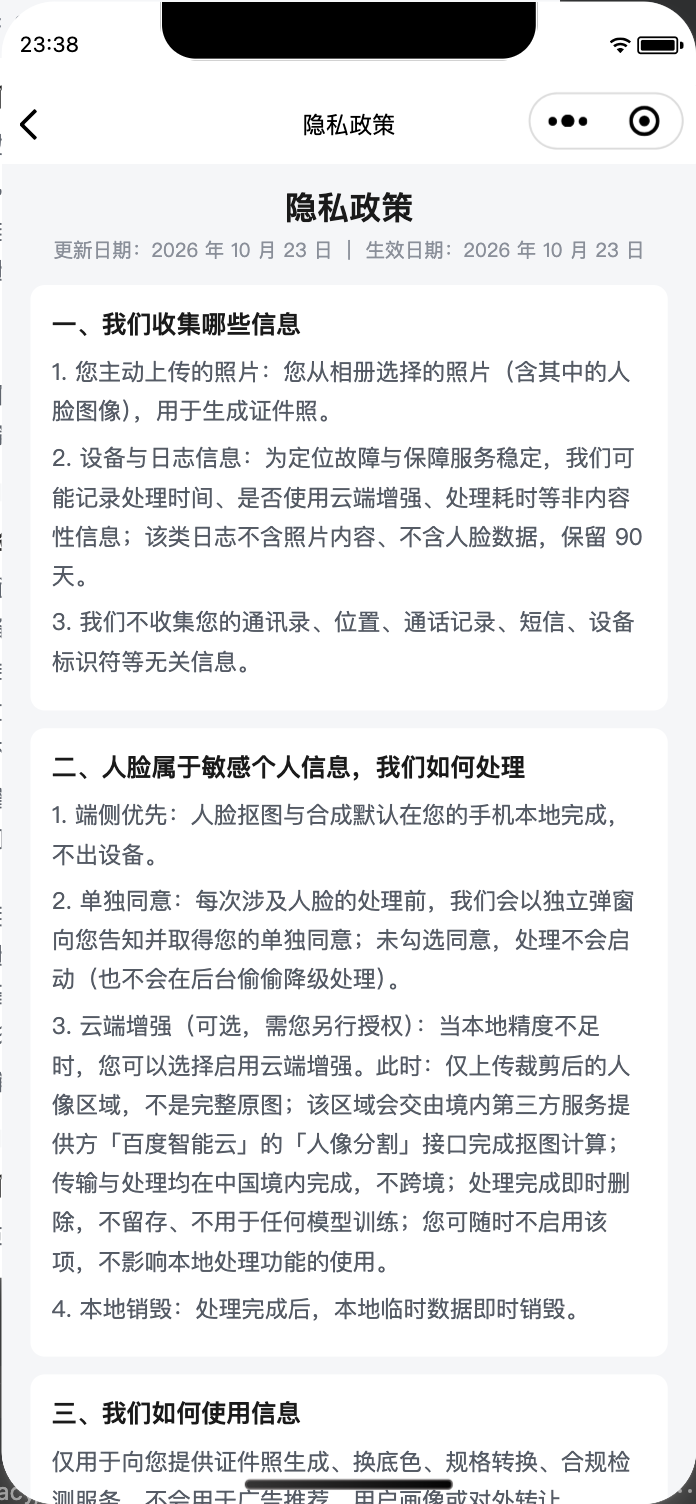
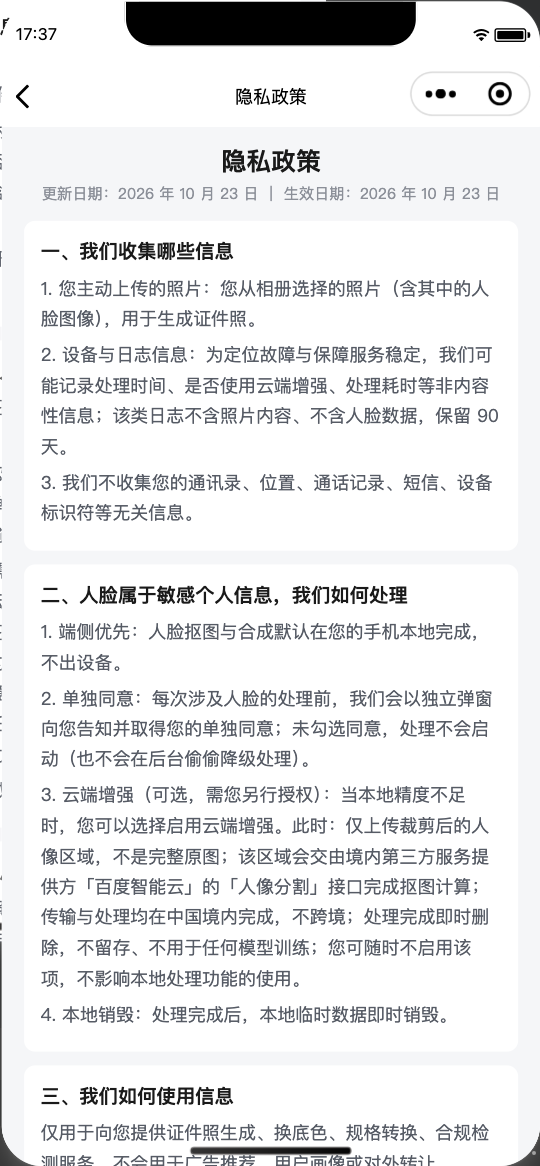
docs(备案): 工信部备案通过，备案号三处同步，提审硬阻塞清零（任务 #5/#11 收口）
owner 2026-10-27 17:2x：工信部备案通过，备案号 苏ICP备2026082326号-1X
（10-22 提交 → 17:01 短信核验 → 管局审核，早于预估 10-31）。
备案为提审唯一硬阻塞，现阻塞清零。

备案号落点同步（原占位「ICP 备案审核中」→ 真实备案号）：
- 隐私政策页页脚 src/pages/privacy/index.tsx
- 用户隐私保护指引与隐私政策.md（末尾 + 自检表 2 项打勾）
- smoke_privacy.js 断言键切换（原键在文案替换后会 FAIL）

连带回写：任务台账 #5/#11 + 关键路径刷新；小程序开发指南备案行；
发布准备包第七节；产品功能清单合规行；birefnet 域名备案前置项。

验证：verify.sh 全绿（tsc 0/编译 8.97s）；smoke_privacy 重跑 10/10
文本命中、运行时错误 0，截图 05-privacy.png。

⚠ -1X 后缀须与 beian.miit.gov.cn 逐字符核对（疑手误/脱敏），
不一致须告知 AI 修正全部落点。

diff --git a/工具链/smoke_privacy.js b/工具链/smoke_privacy.js
@@ -96,7 +96,9 @@ async function readPageText(page) {
     const txt = await readPageText(page);
     // 「百度智能云」为 2026-10-23 新增断言：接第三方 API 后必须在政策页点名披露接收方
     // （个保法第 23 条），漏写即视为披露缺失 → 提审风险。
-    const keys = ['隐私政策', '单独同意', '本地', '境内', '不用于任何模型训练', '90 天', 'tangqiang@vip.126.com', 'ICP 备案审核中', '撤回同意', '百度智能云'];
+    // 「苏ICP备」为 2026-10-27 更新：工信部备案已通过（苏ICP备2026082326号-1X），
+    // 页面页脚由占位文案「ICP 备案审核中」改为真实备案号，断言同步切换。
+    const keys = ['隐私政策', '单独同意', '本地', '境内', '不用于任何模型训练', '90 天', 'tangqiang@vip.126.com', '苏ICP备2026082326号', '撤回同意', '百度智能云'];
     const missing = keys.filter((k) => !txt.includes(k));
     console.log(`3) 关键承诺文本 ${keys.length - missing.length}/${keys.length} ${missing.length === 0 ? 'OK' : 'FAIL 缺失: ' + missing.join('、')}`);
     await shot('05-privacy.png');

diff --git a/idphoto-miniprogram/src/pages/privacy/index.tsx b/idphoto-miniprogram/src/pages/privacy/index.tsx
@@ -76,7 +76,7 @@ export default function Privacy() {
 
       <View className='privacy-page__foot'>
         <Text className='privacy-page__foot-line'>运营主体：个人开发者</Text>
-        <Text className='privacy-page__foot-line'>备案号：ICP 备案审核中（通过后更新）</Text>
+        <Text className='privacy-page__foot-line'>备案号：苏ICP备2026082326号-1X</Text>
       </View>
     </View>
   );

diff --git a/开发任务台账.md b/开发任务台账.md
@@ -22,7 +22,7 @@
 | 2e | **首页工具箱**：首屏展示 **T1–T6 六个入口卡片** + 隐私承诺与合规标识（入口枢纽） | ✅ 完成 | AI | 卡片+承诺已实现（2026-10-27 补 T6 冲印排版卡片，任务 #49）；**等保标识缺失**（待等保申请，PRD I4） | #15 #49 | 10-27 |
 | 3 | **接入真 AI 抠图模型**（端侧轻量模型 / 云端 BiRefNet） | ✅ 完成（接入骨架 + 部署包交付） | AI + 唐强 | 2026-10-23 21:4x–22:4x 完成。**owner 拍板 3 项**：①换可商用模型（RMBG-1.4 权重非商业许可，问题台账 #40）②端侧走可插拔加载器+权重管理（默认关闭零回归）③无 GPU，云端先交付配置与手册。落地：`core/mattingModel.js`（模型规格表：MODNet-q8/fp32/U2Netp/BiRefNet-1024，许可写进代码+单测红线）+`services/modelService.ts`（CDN 下载/缓存/校验/session 注入/失败退避/优雅降级）+`miniprogram/onnxMatting.ts` 重构（注入式 ort，TS2307 基线告警清零）+`部署/birefnet/`（FastAPI 真 BiRefNet 服务+Dockerfile+部署手册+自测脚本，契约与 mattingCloud 严格对齐，合规闸门 403/451/400）。**验证**：单测 108/108（新增 13）+ verify 全绿 + smoke_model 18/18（降级路径零回归）+ 四项回归全绿。**真模型上线待两项外部资源**：端侧权重 CDN 地址 + 境内 GPU（部署后按手册 5 步接入） | #40–#44 | 10-23 |
 | 4 | 补人脸定位（合规预审「头部占比」项） | ✅ 完成 | AI | 2026-10-23 14:0x–14:4x 完成：owner 拍板三口径（①双轨 VisionKit→faceDetect ②仅做定位不做自动裁剪 ③头顶按关键点脸高×系数外推）。**新建 `core/face.js`（纯 JS 22 条单测）+ `services/faceService.ts`（平台适配）**，T1/T3/T4 三处统一接入，消灭 T4/T3 两份重复实现与 0.35/0.30 两套不一致系数；**T1 头占比真实上屏并入预审（PRD B3 / T1-16 从"未做"转"已做"）**。验证：单测 65/65、编译通过、冒烟 `smoke_face.js` 通过（运行时错误 0）+ T1/T3/T4 回归全绿。新登记 #28（固定裁剪系统性低估 4%）/ #29（静默降级掩盖失败）/ #30（VisionKit 报错噪音）/ #31（setState 闭包旧值） | #28 #29 #30 #31 | 10-23 |
-| 5 | 等 ICP 备案号 → 提审发布 | ⛔ 阻塞 | 管局审核 | 备案 7–15 日（短信核验 17:01 已完成） | — | 10-22 |
+| 5 | 等 ICP 备案号 → 提审发布 | ✅ 已通过（2026-10-27） | 管局审核 | 备案 7–15 日；**工信部备案已通过：苏ICP备2026082326号-1X**（短信核验 17:01 已完成） | — | 10-27 |
 | 6 | 维护任务列表与问题台账 + **文档同步**（登记纪律：每次任务结束按《项目资产与工具手册》"文档更新映射表"回写对应文档） | 🔵 持续 | AI | 每次改动触发 | 全部 | 10-22 |
 | 7 | 补齐项目文档资产（技术架构/API/原型/功能清单/目录结构/开发指南） | ✅ 完成 | AI | — | #13 #14 #15 | 10-22 |
 | 8 | 裁决规格数值偏差（PRD vs 代码：护照/驾照/头占比） | ✅ 完成 | AI + 唐强 | 2026-10-23 12:0x 完成：owner 拍板**以官方口径为唯一准则**（联网核查移民管理局/公安部令172号/美国国务院 DS-160）。**原假设被证伪——PRD 的 354×472、378×504 才是错值**。裁决：①PRD 护照→390×567、驾照→260×378；②新增独立 `driver-license` 规格（22×32mm 白底）；③头占比改显式区间（护照 58–69%、驾照 59–69%、美签 49–69%）；④美签 51→50.8mm（600×600 精确）；⑤蓝底双轨（深蓝 #438EDB + 浅蓝 #00BFF3）；⑥一寸/小一寸 KB 100→200。新增《证件照规格官方口径对照表.md》(SSOT) + `工具链/smoke_spec.js` 专项冒烟（16 断言全绿）；verify 全绿（单测 43/43） | #13 #26 #27 | 10-23 |
@@ -30,7 +30,7 @@
 | 9 | 决策付费档形态（个人主体无微信支付） | ✅ 完成 | 唐强 | **2026-10-23 owner 决策「MVP 暂不上付费档」**，并明确 4 点：①**600dpi 印刷级全部工具免费开放**（不再作为付费才给的能力）②**首页显式标注「全部功能免费·无水印」**③**600dpi 时 KB 项不参与判定只作提示**（官方报名系统只校验像素+KB+格式，从不校验 dpi 元数据；KB 上限本身是为 300dpi 像素量设定的）④**动态提高工作图上限输出真 600dpi**（非从 800px 放大）。落地：`core/compose.js` 新建 + `compliance.js` 加 `level='advisory'` + T1/T2/T3 接入 600dpi + 首页免费标识；PRD 正文 H 章/大纲/功能清单/原型/测试用例全部回写；单测 76/76 + verify 全绿 + `工具链/smoke_dpi.js` 冒烟全绿；代码中**不存在任何支付/付费入口实现** | #14 #32 #33 #34 #35 #36 | 10-23 |
 | 33 | **600dpi 全工具免费开放落地**（任务 #9 的执行拆项） | ✅ 完成 | AI | 见上 #9 的落地明细；新增 `工具链/smoke_dpi.js`（首页免费标识 + T1 600dpi 切换/出图/预审分档 + T2 回归 + 「无支付实现」静态断言，运行时错误 0） | #32–#36 | 10-23 |
 | 10 | 补提审合规文档三件套（隐私指引与政策 / 提审清单 / 测试用例） | ✅ 完成 | AI | 已产出；政策正文中 `[ ]` 占位待填 | #16 #17 | 10-22 |
-| 11 | 填隐私政策占位信息（主体姓名、邮箱、备案号、留存天数） | 🔶 大部分完成 | 唐强 | 2026-10-23 owner 确认：邮箱 tangqiang@vip.126.com / 90 天 / 15 工作日 / 主体「个人开发者」，已填入政策页与文档；**仅剩备案号**（等管局，#5） | #5 #17 | 10-23 |
+| 11 | 填隐私政策占位信息（主体姓名、邮箱、备案号、留存天数） | ✅ 完成（2026-10-27） | 唐强 | 2026-10-23 owner 确认：邮箱 tangqiang@vip.126.com / 90 天 / 15 工作日 / 主体「个人开发者」，已填入政策页与文档；**备案号已填：苏ICP备2026082326号-1X**（政策页页脚 + 政策文档 + 冒烟断言三处同步，#5 通过后收口） | #5 #17 | 10-27 |
 | 12 | 决策：T2–T5 是接功能还是提审前临时下架 | ✅ 已消解 | 唐强 | 2026-10-23：**五个工具全部接真实功能，占位页清零**，无需下架任何页面；T3 走端侧贴图 MVP（owner 11:3x 决策），真换装模型列后续版本 | #16 | 10-23 |
 | 13 | 配置微信后台《用户隐私保护指引》并提交审核 | ✅ **已完成（2026-10-27 审核通过）** | 唐强 | 10-23 首次提交；**2026-10-25 23:05 补百度条目后重提**：勾选 5 项（选中的照片或视频/摄像头/相册仅写入/设备信息/操作日志），邮箱统一 `tangqiang@vip.126.com`，更新日期与生效日期均改为 2026-10-25，并通过「补充文档」上传《第三方信息共享说明》`.txt`（2.4KB，后台实测只收 txt ≤100KB，见 #57）。**2026-10-27 00:5x owner 后台查询确认「已通过」**，审核闭环。附带修正：五处工具页 `sourceType` 含 camera，摄像头必须勾（#56） | #17 #56 #57 | 10-27 |
 | 15 | **微信认证材料被打回，需在 2026-11-21 15:22:56 前重提**（订单 15054335870443484830，30 元，剩 2 次重填机会，逾期认证失败且费用不退） | ⬜ 待办（⚠ 有 deadline） | 唐强 | 2026-10-25 23:1x owner 后台发现：界面「审核通过」与红字「需要重提」矛盾，**以红字为准**（机制=审核打回补料，30 天 3 次机会已用 1 次）。**打回原因已查明（10-25 23:2x 通知中心）：《小程序微信认证-修改名称资料通知》——名称资料不完整**，通知内附审核公司电话 0755-36619555 / 0755-26924288 转工号30，并有「点此修改名称资料」直达链接。动作：①点通知内直达链接补名称资料（个人主体+通用词名称常被要求补名称来源说明或改名）②拿不准就打审核公司电话问清楚再交（只剩 2 次机会，别盲试）③保持电话畅通。**不阻塞提审**：个人主体发布无需微信认证，与备案/提审三条线独立 | — | 10-25 |
@@ -122,12 +122,11 @@
 
 ## 三、当前关键路径
 
-> 2026-10-27 09:4x 刷新（**#43 / #13 / #48 / #47 / #49 全部收口**；提审仅剩「真机冒烟 + 备案号」两件）
+> 2026-10-27 17:3x 刷新（**工信部备案已通过：苏ICP备2026082326号-1X**，#5 收口 → 提审硬阻塞清零；剩余：#14 真机冒烟 + #15 微信认证（均不阻塞）+ T3 换装选型待拍板）
 
-**发布硬阻塞（owner 操作）**
-0. **#13 隐私指引 = ✅ 已过审（2026-10-27）**，不再占用关键路径（10-25 重提 → 通过）。
-1. **#5 ICP 备案号**：10-22 提交，7–15 工作日 → 最早约 10-31。下来后填政策页（#11 收尾），**唯一硬阻塞**。
-2. **#15 微信认证重提**：deadline 2026-11-21 15:22，剩 2 次/30 元不退/**不阻塞提审**。先打审核公司电话（0755-36619555 / 26924288 转30）问清名称资料要求再交。
+**发布阻塞项（owner 操作）**
+0. ~~**#5 ICP 备案号**~~ ✅ **2026-10-27 已通过**（苏ICP备2026082326号-1X）——政策页/政策文档/冒烟断言三处已同步填入；提审前需在公众平台确认备案状态已显示「已备案」。
+1. **#15 微信认证重提**：deadline 2026-11-21 15:22，剩 2 次/30 元不退/**不阻塞提审**。先打审核公司电话（0755-36619555 / 26924288 转30）问清名称资料要求再交。
 
 **提审前必做（owner）**
 3. ~~**#48 类目 + 简介**（已完成 2026-10-27：工具>图片处理 + 已设主营类目；简介 106 字符版）~~ ✅ 已收口。

diff --git a/小程序发布准备包.md b/小程序发布准备包.md
@@ -11,7 +11,7 @@
 - [ ] 本人人脸（主体验证 + 备案时刷脸）
 - [x] 小程序名称（已确认）：**标准照裁剪** —— 换词根候选池第8项，用户 14:54 实测可用，不再更换
 - [x] AppID（已获取）：`wxd7ff2aaa541a62e4` —— 已写入脚手架 `idphoto-miniprogram/project.config.json`
-> ✅ **ICP 备案已于 15:13 提交**（发布前置，周期 7–15 日）：备案期间不能正式发布，开发与等待并行推进。
+> ✅ **ICP 备案已通过**（2026-10-27，苏ICP备2026082326号-1X）：10-22 提交 → 17:01 短信核验 → 管局审核通过。备案号已填入小程序隐私政策页页脚与全部文档。
 
 ## 二、小程序名称（个人主体，需换名）
 
@@ -73,7 +73,7 @@
 | 服务内容 | 非经营性工具类，例："提供证件照尺寸转换与背景替换的在线工具" |
 | 核验方式 | 人脸核验（微信侧入口） |
 
-> 备案周期 7–15 个工作日，且备案期间不能正式发布。当前状态：**短信核验已完成（17:01），管局审核中**，预计 7–15 日出备案号；期间开发并行，正式发布等备案通过。
+> 备案周期 7–15 个工作日，且备案期间不能正式发布。当前状态：**✅ 已通过（2026-10-27，备案号 苏ICP备2026082326号-1X）**，正式发布不再等待备案。
 
 ## 五、提审材料清单（开发完成后）
 
@@ -97,23 +97,22 @@
 **用户授权弹窗文案（上传前弹出）**
 "为生成证件照，需要您授权上传人像照片。照片仅用于证件照处理，处理完成后您可随时删除。是否同意？"
 
-## 七、当前进度与下一步（更新于 15:13）
+## 七、当前进度与下一步（更新于 2026-10-27 17:3x）
 
-**已完成**：注册 ✓ / 主体验证 ✓ / 名称「标准照裁剪」✓ / AppID 获取 ✓ / ICP 备案提交 ✓ / 工信部短信核验 ✓（17:01）
-**进行中**：管局审核（7–15 日，出备案号后即可发布）
+**已完成**：注册 ✓ / 主体验证 ✓ / 名称「标准照裁剪」✓ / AppID 获取 ✓ / ICP 备案提交 ✓ / 工信部短信核验 ✓（17:01）/ **管局审核通过 ✓（2026-10-27，备案号 苏ICP备2026082326号-1X）** / 后台隐私指引（含第三方条目）✓（10-27 过审）
+**进行中**：真机冒烟 S1–S7（owner）；微信认证重提（#15，deadline 2026-11-21，不阻塞）
 
-**下一步（并行推进）**：
-1. 等管局审核出**备案号**（7–15 日）——期间无需操作，盯微信后台备案状态即可。
-2. 开发并行：本地用 `idphoto-miniprogram/` 脚手架跑通（AppID 已写入）。
-3. 确定后端形态（CloudBase 或自有服务器）后，我帮你列 request 合法域名清单。
-4. 开发完成按第五节提审清单准备材料 → 提交审核（1–7 日）→ 发布。
+**下一步（按序）**：
+1. **确认备案号精确串**：备案号以工信部备案管理系统（beian.miit.gov.cn）显示为准（当前记录 `苏ICP备2026082326号-1X`，`-1X` 后缀需与系统逐字符核对，不一致须告知 AI 修正全部落点）。政策页页脚已填该号，AI 侧三处同步（页面/文档/冒烟断言）已完成。
+2. 公众平台确认备案状态「已备案」→ 上传代码 → 提交审核（1–7 日）→ 发布。
+3. 开发侧剩余决策：T3 换装重新选型方案待 owner 拍板（见《T3换装重新选型与重构方案.md》）。
 
 > 备案、开发可并行，不等彼此；唯独"正式发布"须等备案通过。
 
 ## 八、后端形态与 request 合法域名清单（待填真实域名）
 
 > 何时需要：只要用到「上云增强」链路（PRD/技术选型已定义，端侧抠图质量不足时自动路由上云），就必须在微信后台配置服务器域名；纯端侧抠图不联网，可暂不配。
-> 合规硬约束（不可破）：域名必须指向**境内**服务器（数据不出境 / 等保二级）；必须 HTTPS；域名需已 ICP 备案（已提交）；**不能填 IP、不能带非 443 端口**。
+> 合规硬约束（不可破）：域名必须指向**境内**服务器（数据不出境 / 等保二级）；必须 HTTPS；域名需已 ICP 备案（**本项目主体备案已通过**：苏ICP备2026082326号-1X，自有域名备案需另办）；**不能填 IP、不能带非 443 端口**。
 
 ### 代码侧（先改这里，再配后台）
 文件 `idphoto-miniprogram/src/services/index.ts` 的 `CLOUD_CONFIG`：

diff --git a/用户隐私保护指引与隐私政策.md b/用户隐私保护指引与隐私政策.md
@@ -3,7 +3,7 @@
 > 适用：微信小程序「标准照裁剪」（个人主体，AppID `wxd7ff2aaa541a62e4`）
 > 依据：《个人信息保护法》第 28 条（敏感个人信息·单独同意）、第 55/56 条（影响评估与记录）、《数据安全法》；微信《小程序用户隐私保护指引》配置要求
 > 对应代码：`src/core/privacy.js`（授权矩阵）、`src/core/mattingCloud.js`（上云闸门）、`src/pages/*`（授权弹窗）
-> 状态：**正文已定稿并落地小程序内政策页**（`pages/privacy/index`，2026-10-23）；**2026-10-23 晚修订：接入第三方「百度智能云·人像分割」，第四节、弹窗文案、后台指引 1.3 均需补披露并重提指引**；待办：①微信后台补第三方条目并重提 ②备案号下来替换页面与本文末尾占位 ③提审材料 ｜ 更新 2026-10-23
+> 状态：**正文已定稿并落地小程序内政策页**（`pages/privacy/index`，2026-10-23）；**2026-10-23 晚修订：接入第三方「百度智能云·人像分割」，第四节、弹窗文案、后台指引 1.3 均需补披露并重提指引**；**2026-10-27 收口：后台指引（含第三方条目）已通过审核；工信部备案通过（苏ICP备2026082326号-1X），页面与本文占位已替换** ｜ 更新 2026-10-27
 
 ---
 
@@ -236,7 +236,7 @@
 
 本政策如有变更，我们将在小程序内提示；涉及人脸处理方式的重大变更，将重新取得您的单独同意。
 
-**运营主体**：`个人开发者` ｜ **备案号**：`ICP 备案审核中（通过后更新）`
+**运营主体**：`个人开发者` ｜ **备案号**：`苏ICP备2026082326号-1X`（2026-10-27 工信部审核通过）
 
 ---
 
@@ -275,12 +275,12 @@
 
 ## 5. 上线前自检（逐条打勾）
 
-- [x] 微信后台《用户隐私保护指引》已提交并通过（状态：**已提交 2026-10-23，审核中（1–3 个工作日），通过后此处更新为已公示**）
+- [x] 微信后台《用户隐私保护指引》已提交并通过（状态：**2026-10-25 重提含第三方条目 → 2026-10-27 审核通过，已公示**）
 - [x] 小程序内有《隐私政策》全文入口（✅ 2026-10-23 已建：首页承诺卡片 → `pages/privacy/index`，冒烟 `工具链/smoke_privacy.js` 通过）
 - [x] 三个授权弹窗默认未勾选，未同意不启动（代码已实现 ✅）
 - [x] 政策正文中的 `[ ]` 占位已按 owner 2026-10-23 确认值替换（邮箱/90天/15工作日/运营主体）
-- [ ] **第三方（百度智能云·人像分割）已在后台《用户隐私保护指引》补填并重新提交**（⛔ 2026-10-23 新增待办：原提交版本未含此项，须重提，见 1.3）
-- [ ] 备案号已获取并填入政策末尾（当前⛔ 待管局，页面暂写「ICP 备案审核中」）
+- [x] **第三方（百度智能云·人像分割）已在后台《用户隐私保护指引》补填并重新提交**（✅ 2026-10-27 已通过审核，见 1.3）
+- [x] 备案号已获取并填入政策末尾（✅ 2026-10-27：工信部备案通过，`苏ICP备2026082326号-1X`，页面页脚已由占位文案替换；冒烟断言同步切换）
 - [ ] 政策文本与代码行为逐条对照无出入（用第 4 节表格核对）
 
 ---

diff --git a/小程序开发指南.md b/小程序开发指南.md
@@ -32,10 +32,10 @@
 | 名称 | **标准照裁剪**（踩过 3 个坑，见《问题台账》#1–#3） | ✅ |
 | AppID | `wxd7ff2aaa541a62e4`，已写入 `project.config.json` | ✅ |
 | 类目 | 工具 / 图像处理（个人主体可选类目少，以后台实际列表为准） | 待确认 |
-| ICP 备案 | 设置 → 小程序备案 → 提交 → **工信部短信 24h 内核验** → 管局审核 7–15 日 | 审核中 |
+| ICP 备案 | 设置 → 小程序备案 → 提交 → **工信部短信 24h 内核验** → 管局审核 7–15 日 | ✅ **已通过（2026-10-27）：苏ICP备2026082326号-1X** |
 | 个人认证 | 可选，30 元/年，提升搜索权重 | 未做 |
 
-**⚠ 硬前置**：**备案未通过不能正式发布**（可先开发、提审）。
+**⚠ 硬前置**：备案未通过不能正式发布（可先开发、提审）。**备案已于 2026-10-27 通过（苏ICP备2026082326号-1X），此硬前置解除**；提审前在公众平台确认备案状态显示「已备案」即可。
 
 ---
 

diff --git a/部署/birefnet/README.md b/部署/birefnet/README.md
@@ -22,7 +22,7 @@
 |---|---|---|---|
 | 1 | **境内** GPU 实例 | 数据不出境（PRD 硬约束）；`region != 'CN'` 服务端直接 451 | 云厂商控制台看地域，必须是中国大陆节点 |
 | 2 | GPU 显存 **≥ 8GB** | 1024 推理约 5.5GB，加上 PyTorch 自身开销留余量 | `nvidia-smi` |
-| 3 | 域名已 **ICP 备案** | 微信小程序合法域名必须备案 | 备案状态（本项目备案审核中） |
+| 3 | 域名已 **ICP 备案** | 微信小程序合法域名必须备案 | 本项目主体备案已通过（2026-10-27，苏ICP备2026082326号-1X）；自有域名需另办备案 |
 | 4 | **HTTPS**、443 端口 | 小程序不允许 http / IP / 非 443 端口 | 浏览器访问 `https://域名/healthz` |
 | 5 | 安全组放行 443 | 否则小程序请求超时 | 云厂商安全组 |
 

diff --git a/产品功能清单.md b/产品功能清单.md
@@ -236,7 +236,7 @@
 | T4 合规检测 | 4 | 0 | 100%（头占比依赖端侧 faceDetect，不支持环境降级） |
 | T5 规格转换 | 7 | 0 | 100% |
 | T6 冲印排版 | 7 | 0 | 100%（pages/tool-print/index + canvas 合成导出已实现；paperLibrary.js + prototype.html P12 屏；回归测试锁定 paperRotated 坐标系，2026-10-26） |
-| 合规展示（隐私政策全文页 + 首页入口） | 2 | 0 | 100%（2026-10-23，#17；备案号占位「审核中」） |
+| 合规展示（隐私政策全文页 + 首页入口） | 2 | 0 | 100%（2026-10-23，#17；备案号已填真实值 苏ICP备2026082326号-1X，2026-10-27 工信部备案通过） |
 | 共享能力（抠图/规格/预审/隐私） | 4 | 0 | 100% |
 | 商业化 | 1 | 1 | 50% |
 
